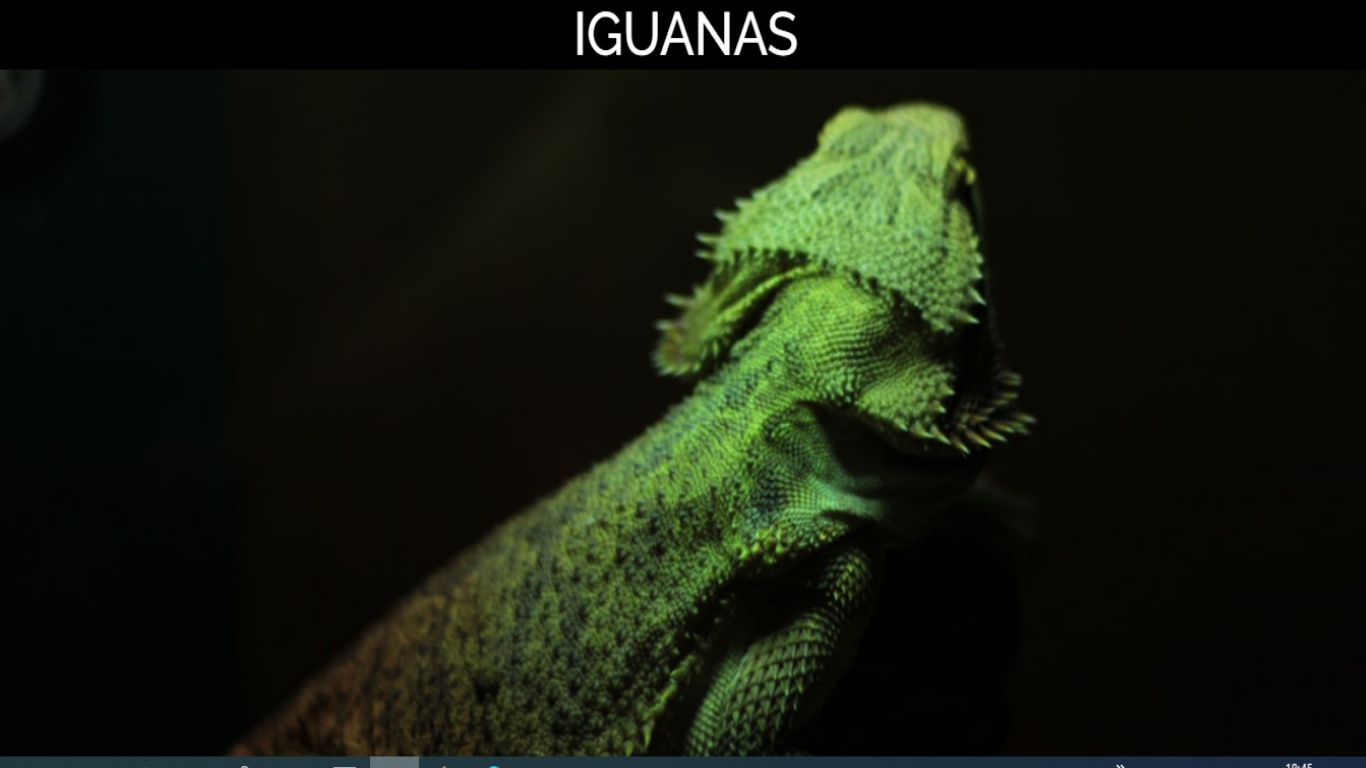
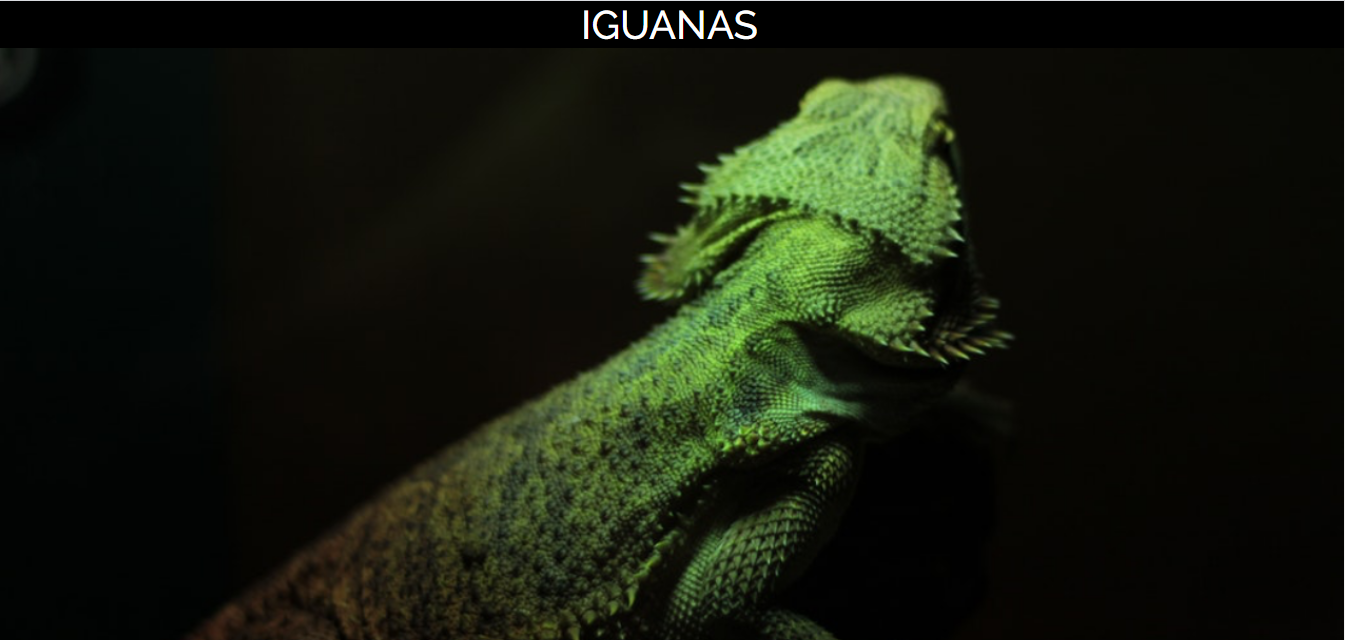
Footer

Changed region(s): [[0.0, 0.0, 1.0, 1.0], [0.4059, 0.0, 0.5933, 0.0938], [0.0, 0.0625, 0.0312, 0.0938]]

diff --git a/index.html b/index.html
@@ -35,7 +35,7 @@ aria-controls="navbarNav" aria-expanded="false" aria-label="Toggle navigation">
       <a class="nav-link text-light naving font-weight-bold" href="#trabajos">Trabajos</a>
     </li>
     <li class="nav-item">
-      <a class="nav-link text-light naving font-weight-bold" href="#">Contacto</a>
+      <a class="nav-link text-light naving font-weight-bold" href="#contacto">Contacto</a>
     </li>
   </ul>
 </div>
@@ -82,30 +82,53 @@ aria-controls="navbarNav" aria-expanded="false" aria-label="Toggle navigation">
 </section>
 
 <section id="trabajos" class="container text-center mt-5">
-  <h2 id="Trabajos" class="display-4 font-weight-bold my-4 subtitulo">Mis trabajos</h2>
-  <div id="carouselExampleInterval" class="carousel slide" data-ride="carousel">
+  <h2 class="display-4 font-weight-bold my-4 subtitulo">Mis trabajos</h2>
+  <div id="carouselExampleIndicators" class="carousel slide container mt-5" data-ride="carousel">
+      <ol class="carousel-indicators">
+        <li data-target="#carouselExampleIndicators" data-slide-to="0" class="active"></li>
+        <li data-target="#carouselExampleIndicators" data-slide-to="1"></li>
+        <li data-target="#carouselExampleIndicators" data-slide-to="2"></li>
+        <li data-target="#carouselExampleIndicators" data-slide-to="3"></li>
+        <li data-target="#carouselExampleIndicators" data-slide-to="4"></li>
+      </ol>
     <div class="carousel-inner">
-      <div class="carousel-item active" data-interval="10000">
-        <img src="assets/img/Meet & coffe.png" class="img-fluid" alt="slide-1">
+      <div class="carousel-item active  text-center">
+          <div><img src="assets/img/Meet & coffe.png" class="cuppon" alt="slider1"></div>
+        </div>
+        <div class="carousel-item">
+            <div><img src="assets/img/Iguana.png" class="cuppon" alt="slider2"></div>
+          </div>
+          <div class="carousel-item">
+              <div><img src="assets/img/Suricata.png" class="cuppon" alt="slider3"></div>
+            </div>
+        <div class="carousel-item ">
+          <div><img src="assets/img/Cuppon.png" class="cuppon" alt="slider4"></div>
       </div>
-      <div class="carousel-item" data-interval="2000">
-        <img src="assets/img/Iguana.png" class="d-block w-100" alt="slide-2">
-      </div>
+      <div class="carousel-item ">
+        <div><img src="assets/img/Ricomida.png" class="cuppon" alt="slider5"></div>
     </div>
-    <a class="carousel-control-prev" href="#carouselExampleInterval" role="button" data-slide="prev">
-      <span class="carousel-control-prev-icon" aria-hidden="true"></span>
-      <span class="sr-only">Previous</span>
-    </a>
-    <a class="carousel-control-next" href="#carouselExampleInterval" role="button" data-slide="next">
-      <span class="carousel-control-next-icon" aria-hidden="true"></span>
-      <span class="sr-only">Next</span>
-    </a>
-  </div>
-</section>
-<section>
-  <h1>LAALALALALALA</h1>
+      </div>
+      </div>
 </section>
 
+<section id="contacto" class="container mt-5">
+  <h2 class="display-4 font-weight-bold my-4 subtitulo text-center">Contacto</h2>
+  <div class="typeform-widget" data-url="https://constanza756027.typeform.com/to/B0vgjW" style="width: 100%; height: 500px;"></div> <script> (function() { var qs,js,q,s,d=document, gi=d.getElementById, ce=d.createElement, gt=d.getElementsByTagName, id="typef_orm", b="https://embed.typeform.com/"; if(!gi.call(d,id)) { js=ce.call(d,"script"); js.id=id; js.src=b+"embed.js"; q=gt.call(d,"script")[0]; q.parentNode.insertBefore(js,q) } })() </script> <div style="font-family: Sans-Serif;font-size: 12px;color: #999;opacity: 0.5; padding-top: 5px;"> powered by <a href="https://admin.typeform.com/signup?utm_campaign=B0vgjW&utm_source=typeform.com-01DZAQVN1H97XXDG0VZP3BRFS0-free&utm_medium=typeform&utm_content=typeform-embedded-poweredbytypeform&utm_term=ES" style="color: #999" target="_blank">Typeform</a> </div>
+  </section>
+
+  <footer class="p-3 text-center text-light">
+    <a href="https://www.instagram.com"><i class="fab fa-instagram fa-5x"></i></a>
+    <a href="https://twitter.com"><i class="fab fa-twitter-square fa-5x"></i></a>
+    <a href="https://www.linkedin.com"><i class="fab fa-linkedin fa-5x"></i></a>
+        </footer>
+
+    <!--Script para incluir Java script -->
+    <!--jQuery 3.3.1-->
+  <script src="https://code.jquery.com/jquery-3.4.1.slim.min.js" integrity="sha384-J6qa4849blE2+poT4WnyKhv5vZF5SrPo0iEjwBvKU7imGFAV0wwj1yYfoRSJoZ+n" crossorigin="anonymous"></script>
+   <!--Popper JS 1.14.3-->
+  <script src="https://cdn.jsdelivr.net/npm/popper.js@1.16.0/dist/umd/popper.min.js" integrity="sha384-Q6E9RHvbIyZFJoft+2mJbHaEWldlvI9IOYy5n3zV9zzTtmI3UksdQRVvoxMfooAo" crossorigin="anonymous"></script>
+   <!--Bootstrap JS 4.1.3-->
+  <script src="https://stackpath.bootstrapcdn.com/bootstrap/4.4.1/js/bootstrap.min.js" integrity="sha384-wfSDF2E50Y2D1uUdj0O3uMBJnjuUD4Ih7YwaYd1iqfktj0Uod8GCExl3Og8ifwB6" crossorigin="anonymous"></script>
 
   </body>
 </html>

diff --git a/assets/css/style.css b/assets/css/style.css
@@ -30,3 +30,8 @@
 body {
   background-color: #000000;
 }
+
+.cuppon{
+  width: 1336px;
+  height: 600px;
+}
